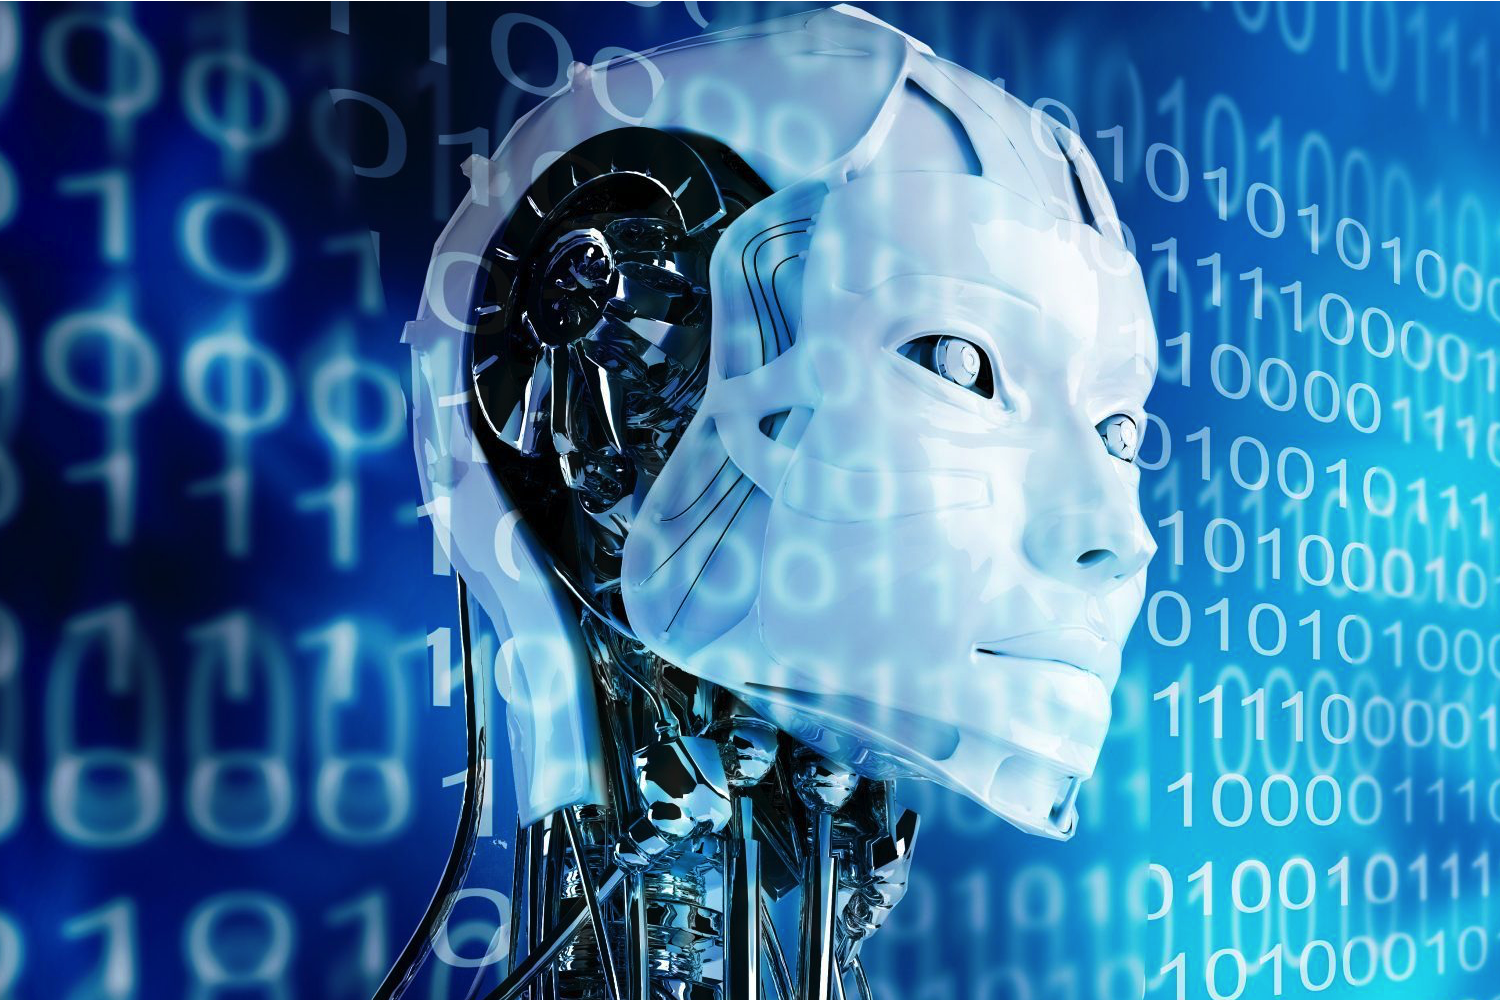
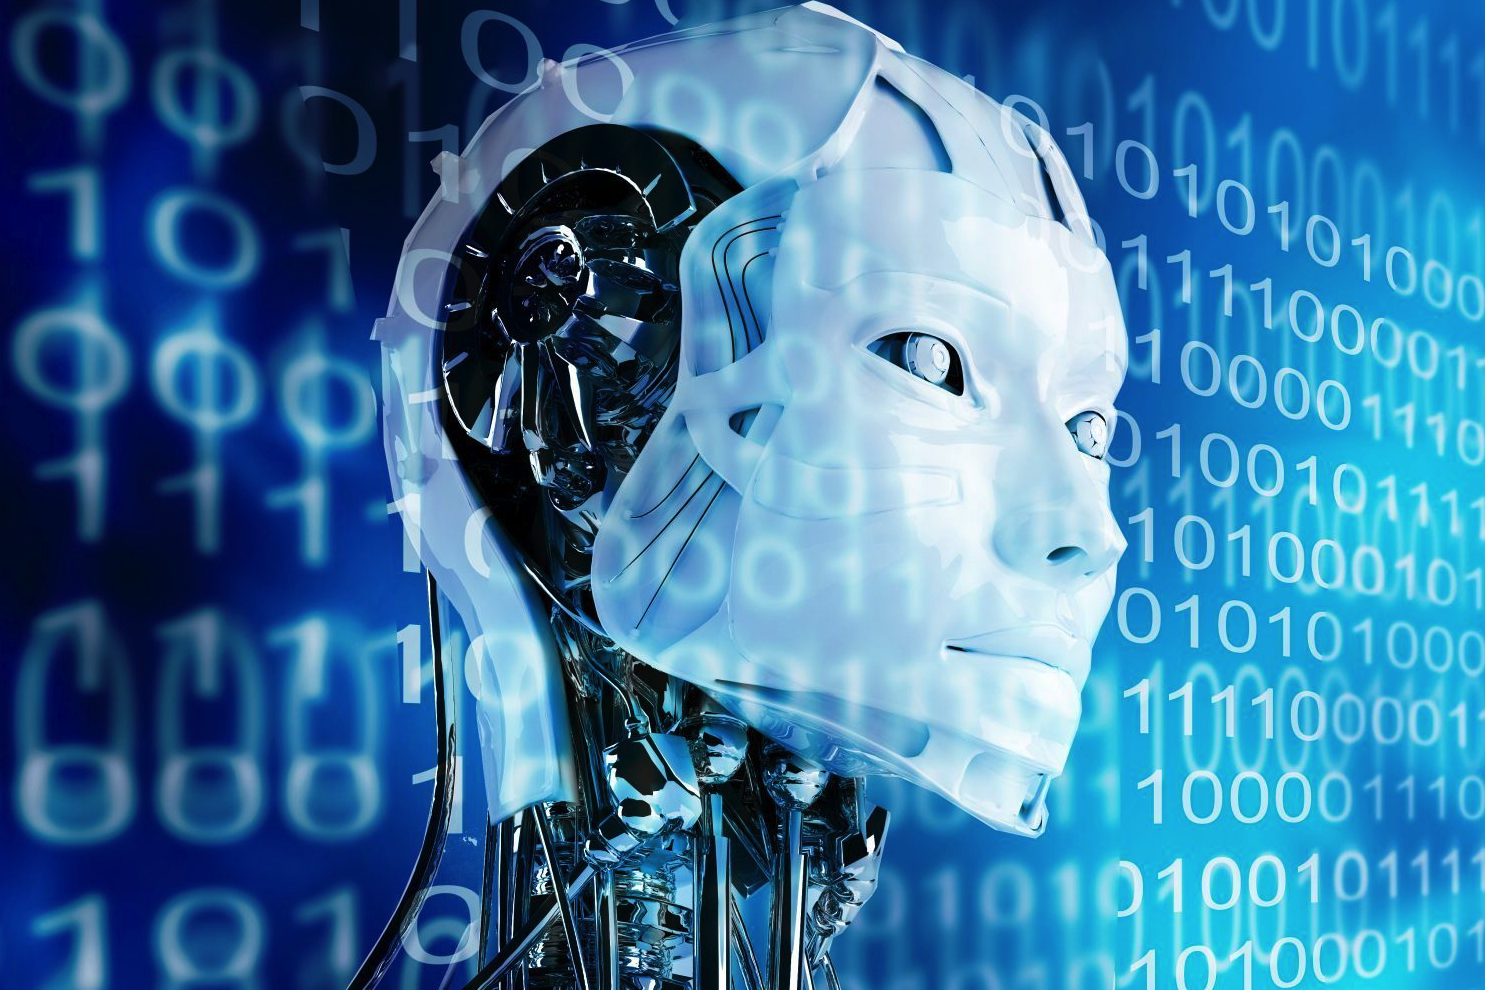
Fixed some spacing issues created by the introduction of LIRI Bot to the portfolio and updated the image

diff --git a/portfolio.html b/portfolio.html
@@ -158,7 +158,7 @@
                         </div>
                     </div>
 
-                    <div class="row mb-4">
+                    <div class="row">
                         <div class="col-md-6">
                             <div class="mx-3 my-4">
                                 <img class="portfolio-picture img-fluid w-100" src="assets/images/rps-multiplayer.jpg"
